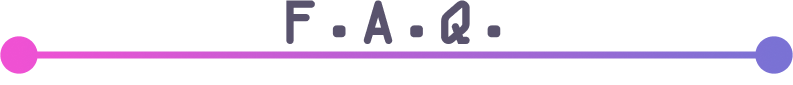
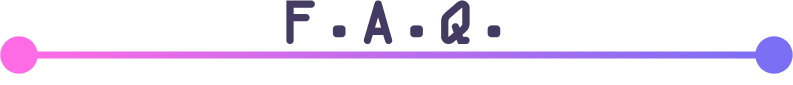
Brighter colors

Changed region(s): [[0.454, 0.4235, 0.9987, 0.8706], [0.0, 0.4235, 0.0908, 0.8706]]

diff --git a/ENVISIONARIEEES/css/style.css b/ENVISIONARIEEES/css/style.css
@@ -1,5 +1,5 @@
 *{
-    background-color: rgb(226, 216, 203);
+    background-color: #FFF4D5;
     font-family: 'Courier New', Courier, monospace;
     margin: 0;
     padding: 0;
@@ -13,9 +13,9 @@ html {
   }
 
 .head {
-    background-color: #59536D; 
-    border-top-color: white;
-    border-bottom-color: white;
+    background-color: #443B63; 
+    border-top-color: #443B63;
+    border-bottom-color: #443B63;
     border-width: 3px;
     font-size: 1.2vw;
     color: white;
@@ -30,9 +30,9 @@ html {
 
 .head .click{
     cursor: pointer;
-    background-color: #59536D;
-    border-top:#59536D;
-    border-bottom: #59536D;
+    background-color: #443B63;
+    border-top:#443B63;
+    border-bottom: #443B63;
     border-color: white;
     color:white;
     display: flex;
@@ -42,26 +42,28 @@ html {
     width: 10vw;
 }
 
-.head .small{
+.small{
     cursor: pointer;
-    background-color: #59536D;
-    border-top:#59536D;
-    border-bottom: #59536D;
+    background-color: #443B63;
+    border-top:#443B63;
+    border-bottom: #443B63;
     border-color: white;
     color:white;
     display: flex;
     padding: 11px 1vw; 
     align-items: right;
-    font-size: 0.9em;
+    font-size: 1em;
     width: 10vw;
 }
 
 .click.hover-effect{
     color:rgb(255, 255, 132);
+    transition: color 0.4s ease-in-out; 
 }
 
 .small.hover-effect{
     color:rgb(255, 255, 132);
+    transition: color 0.4s ease-in-out; 
 }
 
 .body{
@@ -107,7 +109,7 @@ nav {
 
 
 .apply {
-    background-color: #7A72D4;   /* Default button color */
+    background-color: #7A6FF4;   /* Default button color */
     border-width: 3px;
     border-radius: 20px;
     display: flex;
@@ -137,7 +139,8 @@ nav {
 
 /* Hover effect for the button */
 .apply.hover-effect {
-    background-color: rgb(255, 255, 132) !important;  /* Hover background color */
+    background-color: rgb(255, 255, 132) !important;
+    transition: background-color 0.3s ease-in-out;  /* Hover background color */
 }
 
 .apply.hover-effect .extLink {
@@ -163,7 +166,7 @@ nav {
 }
 
 .foot{
-    background-color: #59536D; 
+    background-color: #443B63; 
     font-size: 1.2vw;
     color: white;
     padding: 10px 30px; 
@@ -176,7 +179,7 @@ nav {
 .ftimg{
     width: 2.5vw;
     display: flex;
-    background-color: #59536D;
+    background-color: #443B63;
     padding: 10px 3px;
     justify-content: space-between;
 }

diff --git a/ENVISIONARIEEES/index.html b/ENVISIONARIEEES/index.html
@@ -10,7 +10,7 @@
             <a href="#about"><button type="button" class="click">About</button></a>
             <a href="#prompt"><button type="button" class="click">Prompt</button></a>
             <a href="#eligibility"><button type="button" class="small">Eligibility</button></a>
-            <a href="#announcements"><button type="button" class="small">Announcements</button></a>
+            <a href="#announcements"><button type="button" class="click">News</button></a>
             <a href="#submitting"><button type="button" class="small">Submitting</button></a>
             <a href="#faq"><button type="button" class="click">F.A.Q</button></a>
             <a href="#apply" ><button type="button" class="click">Apply</button></a>
